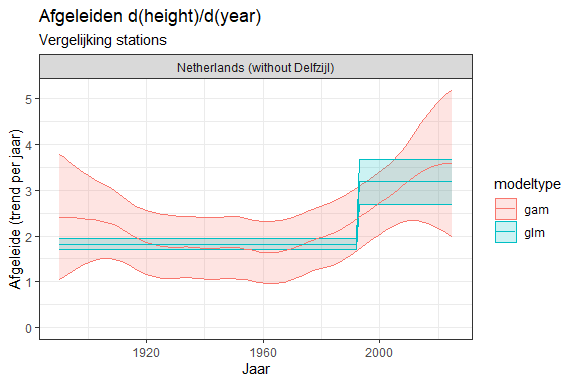
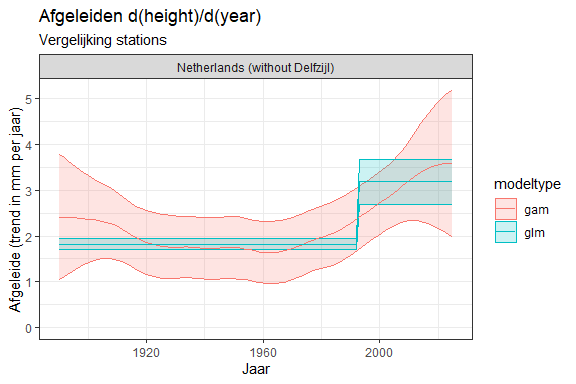
added titles and code block names

Changed region(s): [[0.0, 0.5312, 0.0625, 0.8125], [0.0, 0.2812, 0.0625, 0.5]]

diff --git a/analysis/sealevelmonitor/gam-knmi-analyse.md b/analysis/sealevelmonitor/gam-knmi-analyse.md
@@ -1,7 +1,7 @@
 Comparison between GAM and GLM (broken linear) model for Dutch Sea Level
 ================
 Willem Stolte
-2026-08-04
+2026-09-09
 
 ## Introduction
 
@@ -9,16 +9,23 @@ The Dutch Sea Level Monitor uses General Linearized Model variants to
 describe the sea level at the Dutch coastal tidal stations. In the
 literature, also other models are used. For example, GAM was used by
 Keizer et al. (2023) to detect changes in sea level rise by comparing
-different periods with respect to GAM fitted sea level changes. Although
-GAM is at the moment not included in the official product, in this
-document we test this method in order to visualize patterns of sea level
-changes.
+different periods with respect to GAM fitted sea level changes. GAM is
+at the moment not included as one of the alternative models in the
+official product.
 
 The aim of this notebook is:
 
-- To implement GAM analyses for the Dutch main tidal station
-- To compare the GAM with GLM broken linear model (preferred model for
-  the Sea Level Monitor 2026) in terms of e.g. AIC
+- To implement a first version of GAM analyses for the Dutch main tidal
+  station using the Sea Level Monitor data
+- To compare the performance of GAM, and GLM broken linear model
+  (preferred model for the Sea Level Monitor 2026), in terms of e.g. AIC
+
+<details>
+
+<summary>
+
+Show code for data preparation
+</summary>
 
 ``` r
 # load necessary library
@@ -54,6 +61,8 @@ df <- df %>%
   addBreakPoints()
 ```
 
+</details>
+
 ## Define GAM and GLM
 
 The GAM model used here is using 4 components:
@@ -88,18 +97,18 @@ prepare_nodal <- function(df, epoch = 1970){
 The aim is to compare the model fits from GAM and GLM in terms of AIC.
 This can only be done when using the same model formulations for both
 models. The broken linear model is therefore formulated using the mgcv
-package (like the GAM) but without the smoothing term, so only using
-linear terms.
+package (like the GAM) without the smoothing term, so only using linear
+terms.
 
-Be aware that the exact outcomes of the GLM model in this notebook do
+Be aware that the exact outcomes of the GLM model in this notebook may
 not necessarily match exactly with the GLM outcomes in the Sea Level
 Monitor script.
 
-In the GAM formulation, k denotes the basis dimension of a smooth term,
-defining the maximum flexibility available to the fitted spline. It sets
-an upper bound on the effective degrees of freedom, while the actual
-smoothness is determined by penalization during model fitting. It is set
-to 50 for this analysis.
+In the GAM formulation, $k$ denotes the basis dimension of a smooth
+term, defining the maximum flexibility available to the fitted spline.
+It sets an upper bound on the effective degrees of freedom, while the
+actual smoothness is determined by penalization during model fitting. It
+is set to 50 for this analysis.
 
 ``` r
 slm_k = 50
@@ -134,6 +143,13 @@ glm_model <- function(df){
 ```
 
 Functions to extract predictions, standard errors and derivatives
+
+<details>
+
+<summary>
+
+Show code for helper functions
+</summary>
 
 ``` r
 ## use for plotting - vertically neutral compared to measurements
@@ -226,10 +242,19 @@ se_vals <- ifelse(
 }
 ```
 
+</details>
+
 ## Apply GAM and GLM models to sea level data for all stations
 
 The GAM and GLM models was applied to all six main stations and the
 composite stations according to the code below.
+
+<details>
+
+<summary>
+
+Show code for model generation
+</summary>
 
 ``` r
 selected_model = c("glm", "gam")
@@ -274,6 +299,8 @@ by_station_model_compared = df %>%
 )
 ```
 
+</details>
+
 In general, the resulting predictions from GAM and GLM models are very
 similar for most stations. The GAM model follows, as can be expected,
 better the variability of the measurements. Especially for individual
@@ -305,9 +332,8 @@ plot_comparison(by_station_model_compared %>%
 ```
 
 ![Comparison between GAM and GLM model fits for all individual Dutch
-tidal
-stations.](gam-knmi-analyse_files/figure-gfm/unnamed-chunk-5-1.png) For
-the combined station “Netherlands (without Delfzijl)” GLM and GAM
+tidal stations.](gam-knmi-analyse_files/figure-gfm/gam-glm-all-1.png)
+For the combined station “Netherlands (without Delfzijl)” GLM and GAM
 overlap to a very high extend. In fact, the difference is hard to see
 
 ## Results for the average sea level at the Dutch coast
@@ -319,7 +345,7 @@ plot_comparison(by_station_model_compared %>%
 ```
 
 <figure>
-<img src="gam-knmi-analyse_files/figure-gfm/unnamed-chunk-6-1.png"
+<img src="gam-knmi-analyse_files/figure-gfm/gam-glm-combined-1.png"
 alt="Comparison between GAM and GLM model fits for all Dutch stations, including the combined stations for the Dutch coast without Delfzijl." />
 <figcaption aria-hidden="true">Comparison between GAM and GLM model fits
 for all Dutch stations, including the combined stations for the Dutch
@@ -334,6 +360,13 @@ Delfzijl)”. The sea level rate change over time is of course smoother
 for the GAM model. However, the two signals are surprisingly alike. It
 is furthermore evident that the confidence interval of the GAM model
 increase towards the end of the time series
+
+<details>
+
+<summary>
+
+Show code for plot generation
+</summary>
 
 ``` r
 plot_derivatives <- function(by_station_model_compared) {
@@ -353,12 +386,16 @@ plot_derivatives <- function(by_station_model_compared) {
       title = "Afgeleiden d(height)/d(year)",
       subtitle = "Vergelijking stations",
       x = "Jaar",
-      y = "Afgeleide (trend per jaar)",
+      y = "Afgeleide (trend in mm per jaar)",
       color = "modeltype"
     ) +
     coord_cartesian(ylim = c(0,NA))
 }
+```
 
+</details>
+
+``` r
 by_station_model_compared %>%
   filter(station %in% params$selected_station ) %>%
   plot_derivatives() +
